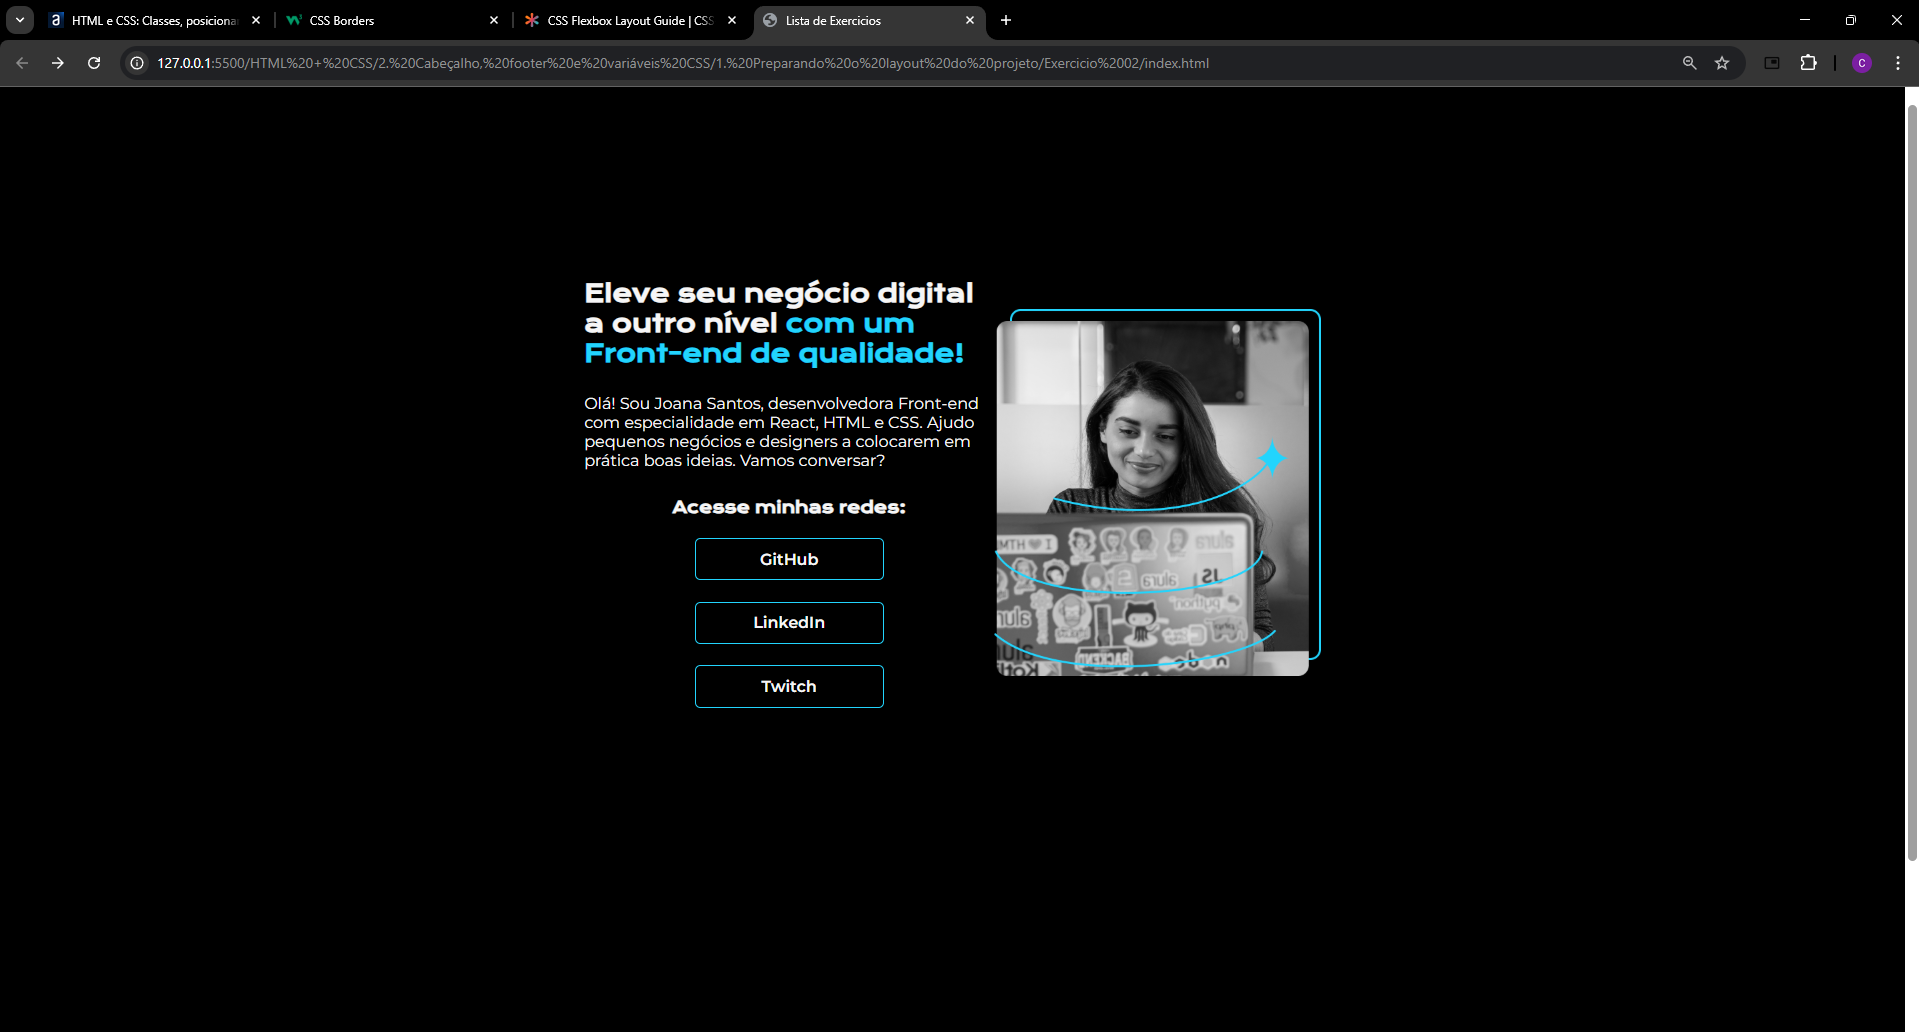
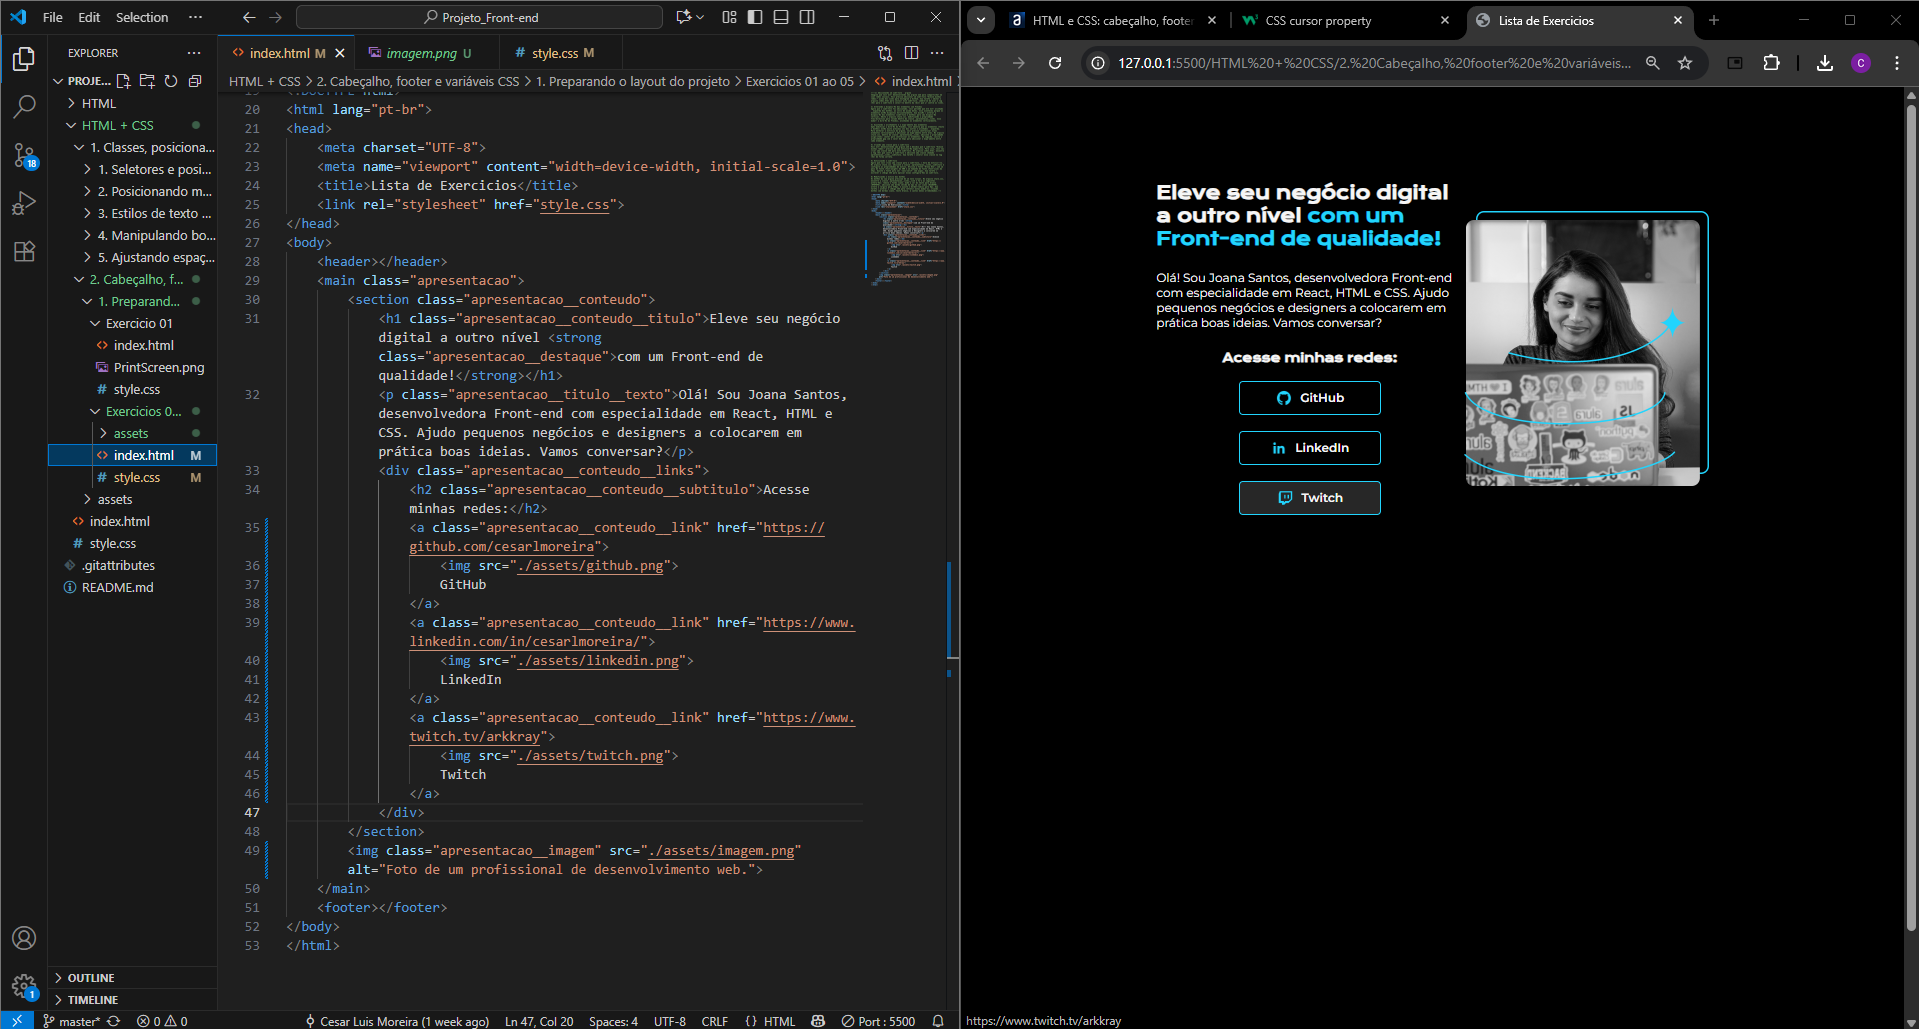
Updated

diff --git a/HTML + CSS/2. Cabeçalho, footer e variáveis CSS/3. Criando header e footer/Exercicios 01 ao 05/index.html b/HTML + CSS/2. Cabeçalho, footer e variáveis CSS/3. Criando header e footer/Exercicios 01 ao 05/index.html
@@ -1,0 +1,67 @@
+<!--1) Personalizando o rodapé do seu site
+Imagine que você está desenvolvendo um site e chegou a hora de personalizar o rodapé. O desafio é criar um rodapé estilizado com as seguintes características: deve ter um fundo azul claro (#22D4FD), texto em preto (#000000), e o texto deve ser centralizado e usar a fonte 'Montserrat', tamanho 24px e peso 400. Além disso, o rodapé deve ter um padding de 24px. Use o HTML e CSS fornecidos como base e aplique as modificações necessárias.
+
+2) Ajustando o espaçamento interno da apresentação
+Você ficou responsável por ajustar o layout de uma seção de apresentação em um site. Atualmente, os elementos estão muito próximos das bordas, o que prejudica a estética do site. Sua tarefa é substituir a propriedade margin por padding na classe .apresentacao do CSS, testando valores de porcentagem para encontrar o espaçamento ideal. Comece com 5% e ajuste conforme necessário para obter um visual equilibrado.
+
+3) Removendo o height para adaptar o layout
+Seu site está enfrentando um problema de layout: a propriedade height: 100vh no body está impedindo que o conteúdo se ajuste corretamente na tela, especialmente com a adição de novos elementos como um rodapé. Sua missão é comentar a linha que define height: 100vh no CSS e verificar o impacto dessa mudança no layout do site. Observe como o conteúdo e o rodapé se adaptam à nova configuração.
+
+4) Estilizando o cabeçalho com CSS
+Você está criando um site e chegou a hora de estilizar o cabeçalho para que ele fique visível e atraente, similar ao projeto no Figma. Você precisa adicionar estilo ao cabeçalho no arquivo style.css, de forma que os links "Home" e "Sobre mim" fiquem alinhados horizontalmente e com uma aparência moderna. Considere usar propriedades como font-size, color, margin, padding, e display. Tente também adicionar um hover para alterar a cor dos links quando o mouse passar por cima.
+
+5) Ajustando o espaçamento interno dos links
+Com base no estilo atual do cabeçalho, percebe-se que os links podem estar muito próximos um do outro ou da borda do cabeçalho, o que pode afetar a legibilidade e a estética do site. Sua tarefa é ajustar o espaçamento interno (padding) dos links "Home" e "Sobre mim" para garantir que eles tenham um espaçamento adequado em torno do texto. Isso tornará o cabeçalho mais atraente e fácil de usar.-->
+
+<!DOCTYPE html>
+<html lang="pt-br">
+
+<head>
+    <meta charset="UTF-8">
+    <meta http-equiv="X-UA-Compatible" content="IE=edge">
+    <meta name="viewport" content="width=device-width, initial-scale=1.0">
+    <title>Portifolio</title>
+    <link rel="stylesheet" href="./styles/style.css">
+</head>
+
+<body>
+    <header class="cabecalho">
+        <nav class="cabecalho__menu">
+            <a class="cabecalho__menu__link" href="index.html"> Home</a>
+            <a class="cabecalho__menu__link" href="about.html"> Sobre Mim</a>
+        </nav>
+    </header>
+    <main class="apresentacao">
+        <section class="apresentacao__conteudo">
+            <h1 class="apresentacao__conteudo__titulo">Eleve seu negócio digital a outro nível <strong 
+            class="titulo-destaque">com um Front-end de qualidade!
+            </strong></h1>
+            <p class="apresentacao__conteudo__texto">Olá! Sou Joana Santos, desenvolvedora
+            Front-end com especialidade em React, HTML e
+            CSS. Ajudo pequenos negócios e designers a
+            colocarem em prática boas ideias. Vamos
+            conversar?</p>
+            <div class="apresentacao__links">
+                <h2 class="apresentacao__links__subtitulo">Acesse minhas redes</h2>
+                <a class="apresentacao__links__link" href="https://github.com/cesarlmoreira">
+                    <img src="./assets/github.png">
+                    GitHub
+                </a>
+                <a class="apresentacao__links__link" href="https://www.linkedin.com/in/cesarlmoreira/">
+                    <img src="./assets/linkedin.png">
+                    LinkedIn
+                </a>
+                <a class="apresentacao__links__link" href="https://www.twitch.tv/arkkray">
+                    <img src="./assets/twitch.png">
+                    Twitch
+                </a>
+            </div>
+        </section>
+        <img src="./assets/imagem.png" alt="Foto da Joana Santos programando">
+    </main>
+    <footer>
+        <p class="rodape">Desenvolvido por Cesar L. Moreira.</p>
+    </footer>
+</body>
+
+</html>

diff --git a/HTML + CSS/2. Cabeçalho, footer e variáveis CSS/3. Criando header e footer/Exercicios 01 ao 05/styles/style.css b/HTML + CSS/2. Cabeçalho, footer e variáveis CSS/3. Criando header e footer/Exercicios 01 ao 05/styles/style.css
@@ -1,0 +1,102 @@
+@import url('https://fonts.googleapis.com/css2?family=Krona+One&family=Montserrat:wght@400;600&display=swap');
+
+*{
+    margin: 0;
+    padding: 0;
+}
+
+body {
+    box-sizing: border-box;
+    background-color: #000000;
+    color: #F6F6F6;
+}
+
+.cabecalho {
+    padding: 2% 0 0 15%;
+}
+
+.cabecalho__menu {
+    display: flex;
+    gap: 80px;
+}
+
+.cabecalho__menu__link {
+    font-family: 'Montserrat', sans-serif;
+    Font-weight: 600;
+    font-size: 24px;
+    color: #22D4FD;
+    text-decoration: none;
+}
+
+.cabecalho__menu__link:hover {
+    color: #007bff;
+  }
+
+.titulo-destaque {
+    color: #22D4FD;
+}
+
+.apresentacao {
+    padding: 5% 15%;
+    display: flex;
+    align-items: center;
+    justify-content: space-between;
+}
+.apresentacao__conteudo {
+    width: 615px;
+    display: flex;
+    flex-direction: column;
+    gap: 40px;
+}
+
+.apresentacao__conteudo__titulo {
+    font-size: 36px;
+    font-family: 'Krona One', sans-serif;
+}
+
+.apresentacao__conteudo__texto {
+    font-size: 24px;
+    font-family: 'Montserrat', sans-serif;
+}
+
+.apresentacao__links {
+    display: flex;
+    flex-direction: column;
+    justify-content: space-between;
+    align-items: center;
+    gap: 32px;
+}
+.apresentacao__links__subtitulo {
+    font-family: 'Krona One', sans-serif;
+    font-weight: 400;
+    font-size: 24px;
+}
+.apresentacao__links__link {
+    /* background-color: #22D4FD; */
+    display: flex;
+    justify-content: center;
+    gap: 16px;
+    border: 2px solid #22D4FD;
+    width: 378px;
+    text-align: center;
+    border-radius: 8px;
+    font-size: 24px;
+    font-weight: 600;
+    padding: 21.5px 0;
+    text-decoration: none;
+    color: #F6F6F6;
+    font-family: 'Montserrat', sans-serif;
+}
+.apresentacao__links__link:hover {
+    background-color: #272727;
+}
+
+.rodape {
+    background-color: #22D4FD; 
+    color:#000000;
+    text-align: center; 
+    padding: 24px;
+    font-family: 'Montserrat', sans-serif;
+    font-weight: 400;
+    font-size: 24px; 
+}

diff --git a/HTML + CSS/2. Cabeçalho, footer e variáveis CSS/2. Criando itens clicáveis/Exercicios 01 ao 05/index.html b/HTML + CSS/2. Cabeçalho, footer e variáveis CSS/2. Criando itens clicáveis/Exercicios 01 ao 05/index.html
@@ -1,0 +1,45 @@
+<!DOCTYPE html>
+<html lang="pt-br">
+
+<head>
+    <meta charset="UTF-8">
+    <meta http-equiv="X-UA-Compatible" content="IE=edge">
+    <meta name="viewport" content="width=device-width, initial-scale=1.0">
+    <title>Portifolio</title>
+    <link rel="stylesheet" href="style.css">
+</head>
+
+<body>
+    <header></header>
+    <main class="apresentacao">
+        <section class="apresentacao__conteudo">
+            <h1 class="apresentacao__conteudo__titulo">Eleve seu negócio digital a outro nível <strong 
+            class="titulo-destaque">com um Front-end de qualidade!
+            </strong></h1>
+            <p class="apresentacao__conteudo__texto">Olá! Sou Joana Santos, desenvolvedora
+            Front-end com especialidade em React, HTML e
+            CSS. Ajudo pequenos negócios e designers a
+            colocarem em prática boas ideias. Vamos
+            conversar?</p>
+            <div class="apresentacao__links">
+                <h2 class="apresentacao__links__subtitulo">Acesse minhas redes</h2>
+                <a class="apresentacao__links__link" href="https://github.com/cesarlmoreira">
+                <img src="./assets/github.png">
+                    GitHub
+                </a>
+                <a class="apresentacao__links__link" href="https://www.linkedin.com/in/cesarlmoreira/">
+                <img src="./assets/linkedin.png">
+                    LinkedIn
+                </a>
+                <a class="apresentacao__links__link" href="https://www.twitch.tv/arkkray">
+                <img src="./assets/twitch.png">
+                    Twitch
+                </a>
+            </div>
+        </section>
+        <img src="./assets/imagem.png" alt="Foto da Joana Santos programando">
+    </main>
+    <footer></footer>
+</body>
+
+</html>

diff --git a/HTML + CSS/2. Cabeçalho, footer e variáveis CSS/1. Preparando o layout do projeto/Exercicios 01 ao 05/index.html b/HTML + CSS/2. Cabeçalho, footer e variáveis CSS/1. Preparando o layout do projeto/Exercicios 01 ao 05/index.html
@@ -32,12 +32,21 @@ Os botões da sua página precisam de um novo visual. No arquivo style.css, enco
             <p class="apresentacao__titulo__texto">Olá! Sou Joana Santos, desenvolvedora Front-end com especialidade em React, HTML e CSS. Ajudo pequenos negócios e designers a colocarem em prática boas ideias. Vamos conversar?</p>
             <div class="apresentacao__conteudo__links">
                 <h2 class="apresentacao__conteudo__subtitulo">Acesse minhas redes:</h2> 
-                <a class="apresentacao__conteudo__links__link" href="https://github.com/cesarlmoreira"> GitHub</a>  
-                <a class="apresentacao__conteudo__links__link" href="https://www.linkedin.com/in/cesarlmoreira/"> LinkedIn</a>
-                <a class="apresentacao__conteudo__links__link" href="https://www.twitch.tv/arkkray"> Twitch</a>
+                <a class="apresentacao__conteudo__link" href="https://github.com/cesarlmoreira">
+                    <img src="./assets/github.png"> 
+                    GitHub
+                </a>  
+                <a class="apresentacao__conteudo__link" href="https://www.linkedin.com/in/cesarlmoreira/">
+                    <img src="./assets/linkedin.png"> 
+                    LinkedIn
+                </a>
+                <a class="apresentacao__conteudo__link" href="https://www.twitch.tv/arkkray"> 
+                    <img src="./assets/twitch.png">
+                    Twitch 
+                </a>
             </div> 
         </section> 
-        <img class="apresentacao__imagem" src="Imagem.png" alt="Foto de um profissional de desenvolvimento web.">
+        <img class="apresentacao__imagem" src="./assets/imagem.png" alt="Foto de um profissional de desenvolvimento web.">
     </main>
     <footer></footer>
 </body>

diff --git a/HTML + CSS/2. Cabeçalho, footer e variáveis CSS/2. Criando itens clicáveis/Exercicios 01 ao 05/style.css b/HTML + CSS/2. Cabeçalho, footer e variáveis CSS/2. Criando itens clicáveis/Exercicios 01 ao 05/style.css
@@ -1,0 +1,73 @@
+@import url('https://fonts.googleapis.com/css2?family=Krona+One&family=Montserrat:wght@400;600&display=swap');
+
+*{
+    margin: 0;
+    padding: 0;
+}
+
+body{
+    height: 100vh;
+    box-sizing: border-box;
+    background-color: #000000;
+    color: #F6F6F6;
+}
+
+.titulo-destaque{
+    color: #22D4FD;
+}
+
+.apresentacao{
+    margin: 10% 15%;
+    display: flex;
+    align-items: center;
+    justify-content: space-between;
+}
+.apresentacao__conteudo {
+    width: 615px;
+    display: flex;
+    flex-direction: column;
+    gap: 40px;
+}
+
+.apresentacao__conteudo__titulo {
+    font-size: 36px;
+    font-family: 'Krona One', sans-serif;
+}
+
+.apresentacao__conteudo__texto {
+    font-size: 24px;
+    font-family: 'Montserrat', sans-serif;
+}
+
+.apresentacao__links {
+    display: flex;
+    flex-direction: column;
+    justify-content: space-between;
+    align-items: center;
+    gap: 32px;
+}
+.apresentacao__links__subtitulo {
+    font-family: 'Krona One', sans-serif;
+    font-weight: 400;
+    font-size: 24px;
+}
+.apresentacao__links__link {
+    display: flex;
+    justify-content: center;
+    gap: 16px;
+    border: 2px solid #22D4FD;
+    width: 378px;
+    text-align: center;
+    border-radius: 8px;
+    font-size: 24px;
+    font-weight: 600;
+    padding: 21.5px 0;
+    text-decoration: none;
+    color: #F6F6F6;
+    font-family: 'Montserrat', sans-serif;
+}
+
+.apresentacao__links__link:hover {
+    background-color: #272727;
+    cursor: pointer;
+}

diff --git a/HTML + CSS/2. Cabeçalho, footer e variáveis CSS/3. Criando header e footer/Exercicios 01 ao 05/about.html b/HTML + CSS/2. Cabeçalho, footer e variáveis CSS/3. Criando header e footer/Exercicios 01 ao 05/about.html
@@ -1,0 +1,23 @@
+<!DOCTYPE html>
+<html lang="pt-br">
+<head>
+    <meta charset="UTF-8">
+    <meta name="viewport" content="width=device-width, initial-scale=1.0">
+    <title>Sobre mim</title>
+    <link rel="stylesheet" href="./styles/style.css">
+</head>
+<body>
+    <header class="cabecalho">
+        <nav class="cabecalho__menu">
+            <a class="cabecalho__menu__link" href="index.html"> Home</a>
+            <a class="cabecalho__menu__link" href="about.html"> Sobre Mim</a>
+        </nav>
+    </header>
+    <main>
+
+    </main>  
+    <footer class="rodape">
+        <p>Desenvolvido por Cesar L. Moreira.</p>
+    </footer>  
+</body>
+</html>

diff --git a/HTML + CSS/2. Cabeçalho, footer e variáveis CSS/1. Preparando o layout do projeto/Exercicios 01 ao 05/style.css b/HTML + CSS/2. Cabeçalho, footer e variáveis CSS/1. Preparando o layout do projeto/Exercicios 01 ao 05/style.css
@@ -56,7 +56,10 @@ body {
     font-size: 24px;     
 }
 
-.apresentacao__conteudo__links__link {
+.apresentacao__conteudo__link {
+    display: flex;
+    justify-content: center;
+    gap: 16px;
     font-family: "Montserrat", sans-serif; 
     font-weight: 600;
     text-decoration: none;
@@ -68,6 +71,7 @@ body {
     padding: 16px 0;
 }
 
-.apresentacao__imagem {
-    align-items: flex-start;
+.apresentacao__conteudo__link:hover {
+
+    background-color: #272727;
 }
